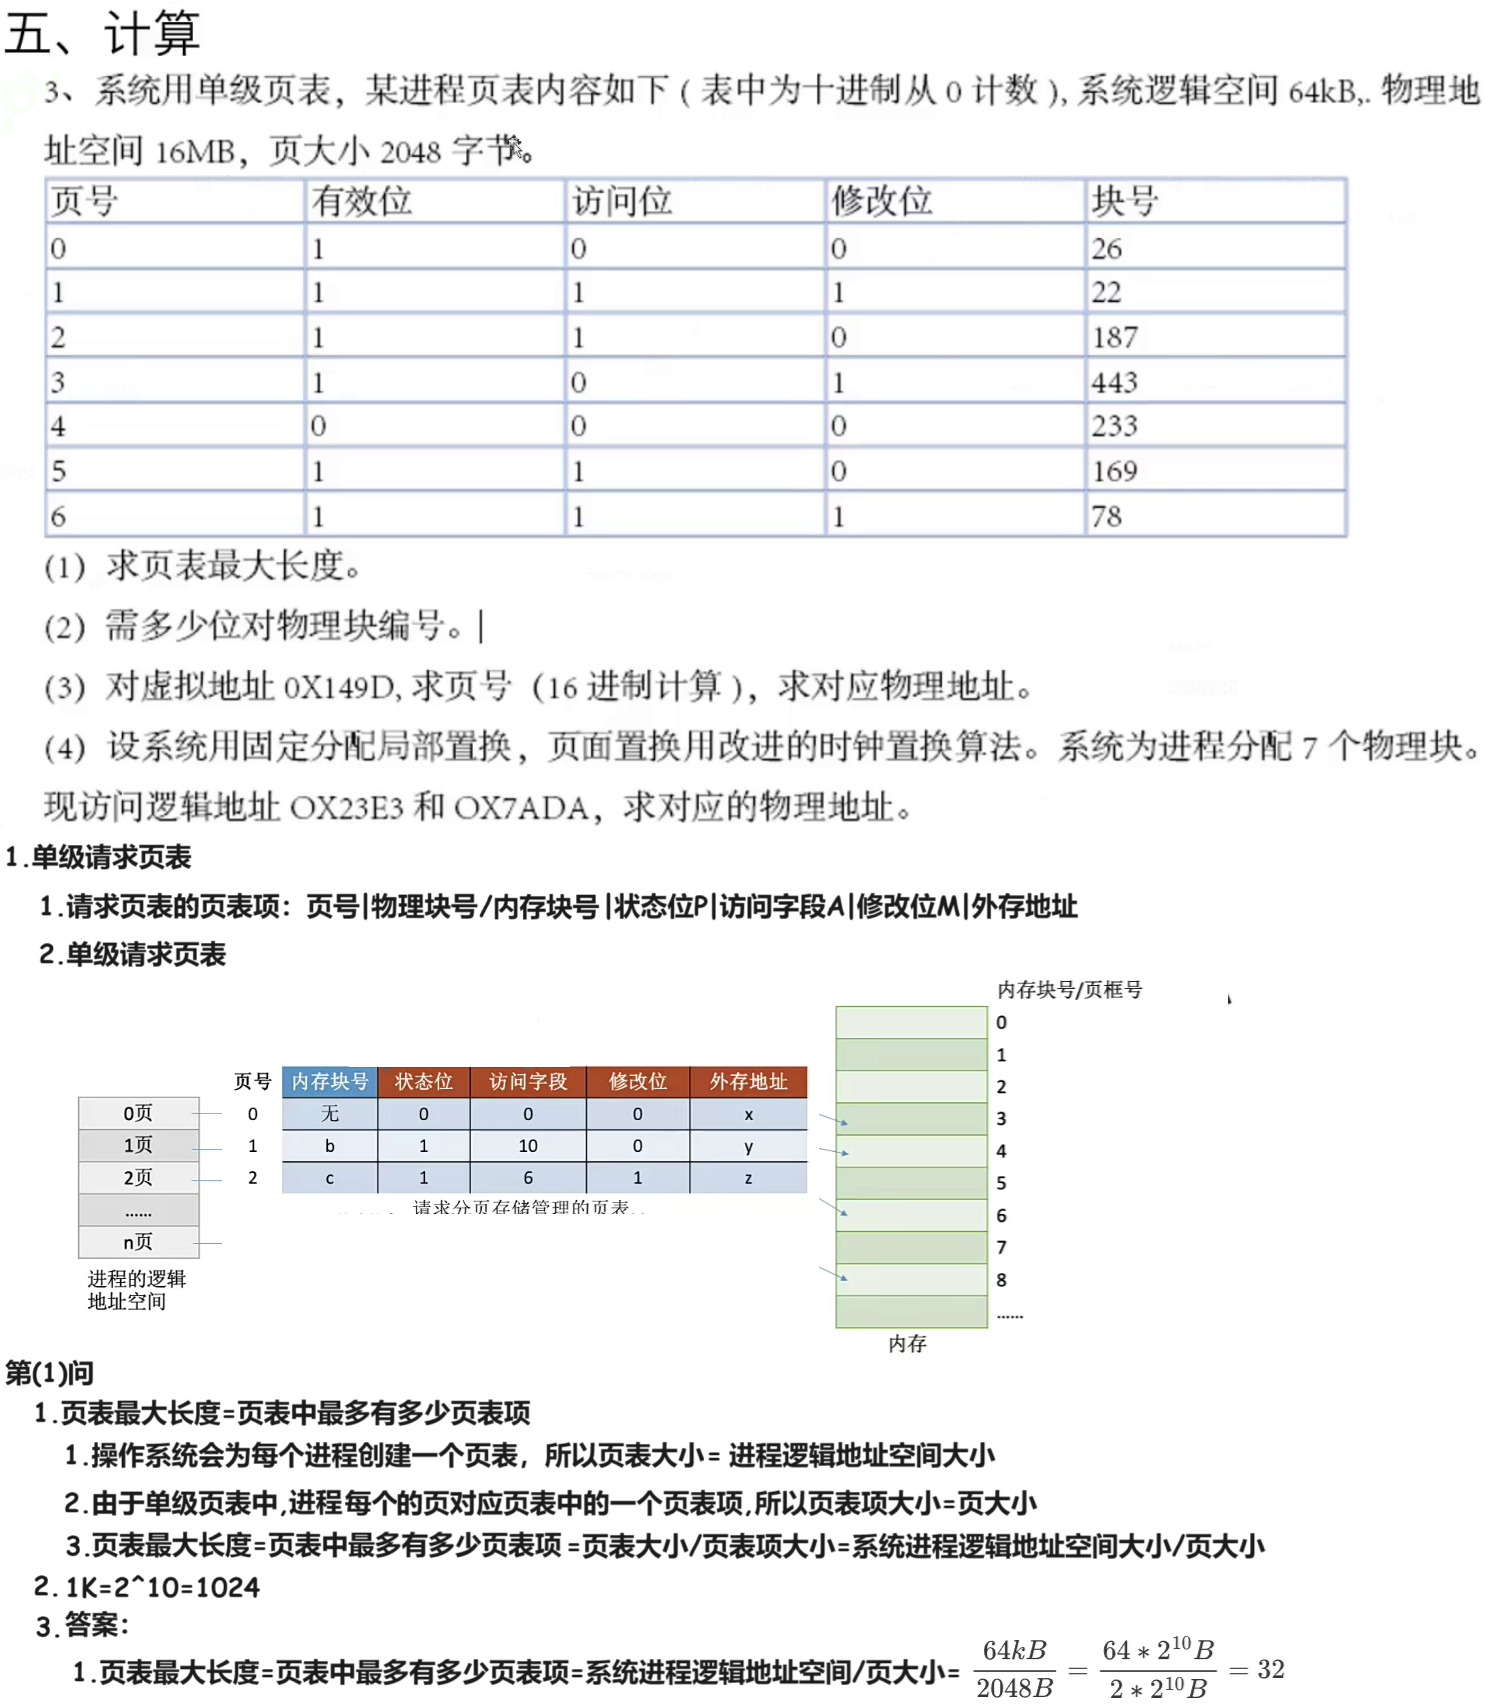
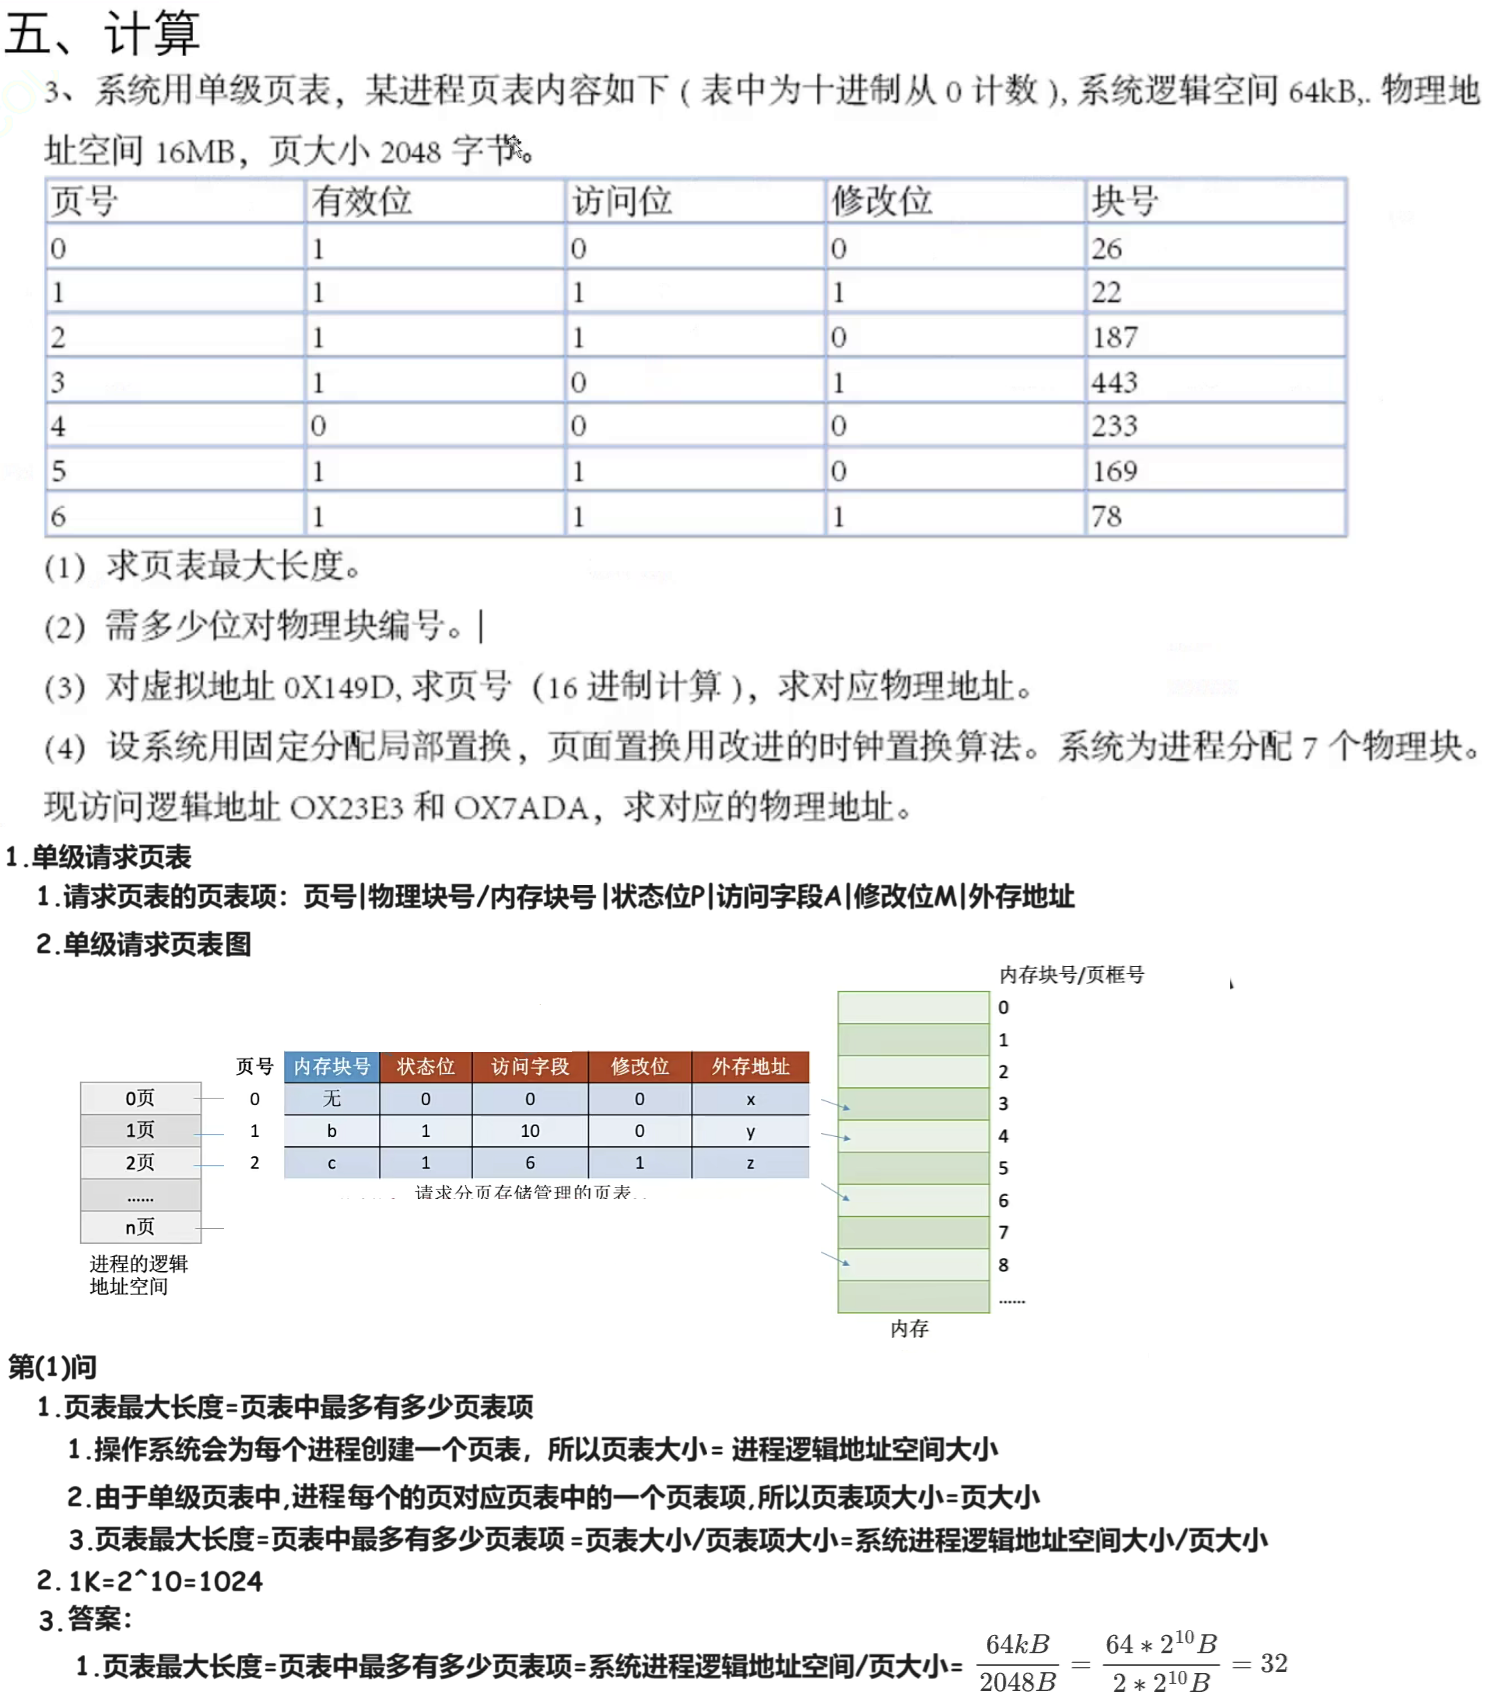
240107

diff --git a/04 每日一题/01 820/05 23/01 操作系统部分/03 计算题/03 基本分页存储管理 240107/01 题目/01 Doc.md b/04 每日一题/01 820/05 23/01 操作系统部分/03 计算题/03 基本分页存储管理 240107/01 题目/01 Doc.md
@@ -1,6 +1,6 @@
 # 00 背诵
 
-<img src="https://cvp.oss-cn-shanghai.aliyuncs.com/picgo/202401071524831.png" alt="image-20240107152445741" style="zoom:50%;" />
+<img src="https://cvp.oss-cn-shanghai.aliyuncs.com/picgo/202401071536205.png" alt="image-20240107153653882" style="zoom:50%;" />
 
 
 
